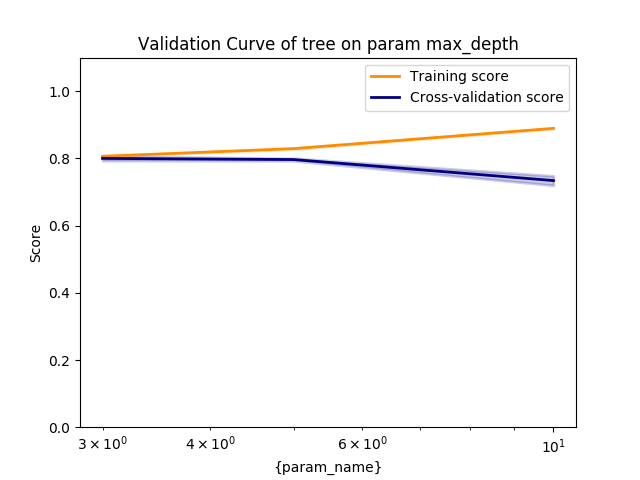
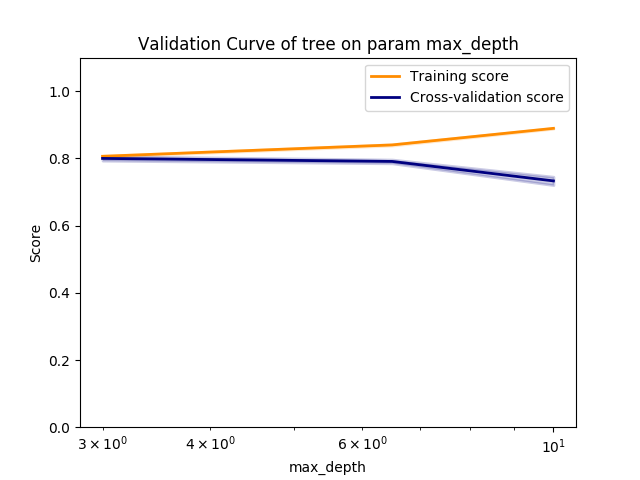
Validation curves

Changed region(s): [[0.2188, 0.25, 0.8438, 0.4062], [0.4375, 0.9688, 0.5938, 1.0]]

diff --git a/assignment-fnc/modelling.py b/assignment-fnc/modelling.py
@@ -120,11 +120,12 @@ def train_sklearn_model(model_name, train_X, train_Y, test_X, test_Y):
     start_time = time.time()
 
     if model_name == "xgboost":
-        plot_validation_curve(model, model_name, train_X, train_Y, "gamma", [0.01, 0.1, 1.0, 5.0])
         # Xgboost has a custom fit
         fit_xgboost(model, train_X, train_Y, test_X, test_Y)
+        plot_validation_curve(model, model_name, train_X, train_Y, "gamma", [0.01, 0.1, 1.0, 5.0])
     elif model_name == "tree":
         # Plot some validation curves on the parameters
+        model.fit(train_X, train_Y)
         plot_validation_curve(model, model_name, train_X, train_Y, "max_depth", np.linspace(3, 10, 3))
         plot_validation_curve(model, model_name, train_X, train_Y, "min_samples_split", np.linspace(2, 50, 4))
         plot_validation_curve(model, model_name, train_X, train_Y, "min_samples_leaf", np.linspace(2, 100, 4))

diff --git a/assignment-fnc/validation_curve.py b/assignment-fnc/validation_curve.py
@@ -19,12 +19,12 @@ def plot_validation_curve(estimator, model_name, X, y, param_name, param_range =
     plt.ylabel("Score")
     plt.ylim(0.0, 1.1)
     lw = 2
-    plt.semilogx(param_range, train_scores_mean, label="Training score",
+    plt.plot(param_range, train_scores_mean, label="Training score",
                 color="darkorange", lw=lw)
     plt.fill_between(param_range, train_scores_mean - train_scores_std,
                     train_scores_mean + train_scores_std, alpha=0.2,
                     color="darkorange", lw=lw)
-    plt.semilogx(param_range, test_scores_mean, label="Cross-validation score",
+    plt.plot(param_range, test_scores_mean, label="Cross-validation score",
                 color="navy", lw=lw)
     plt.fill_between(param_range, test_scores_mean - test_scores_std,
                     test_scores_mean + test_scores_std, alpha=0.2,
